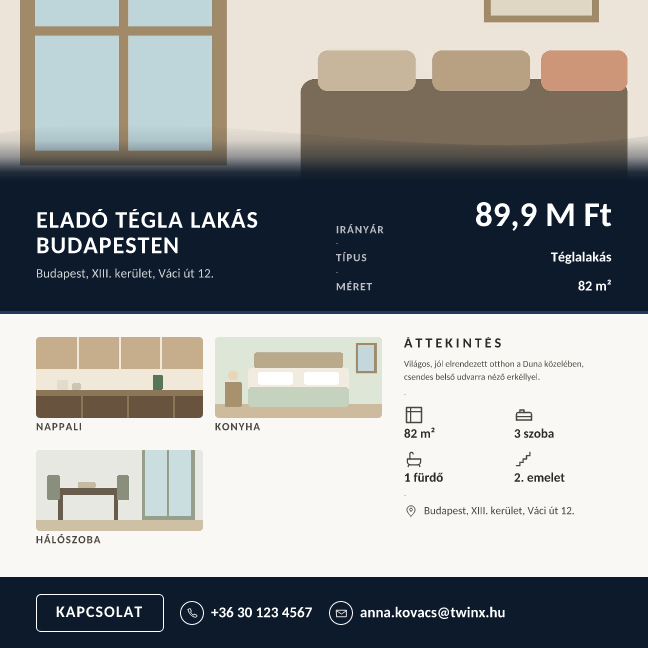
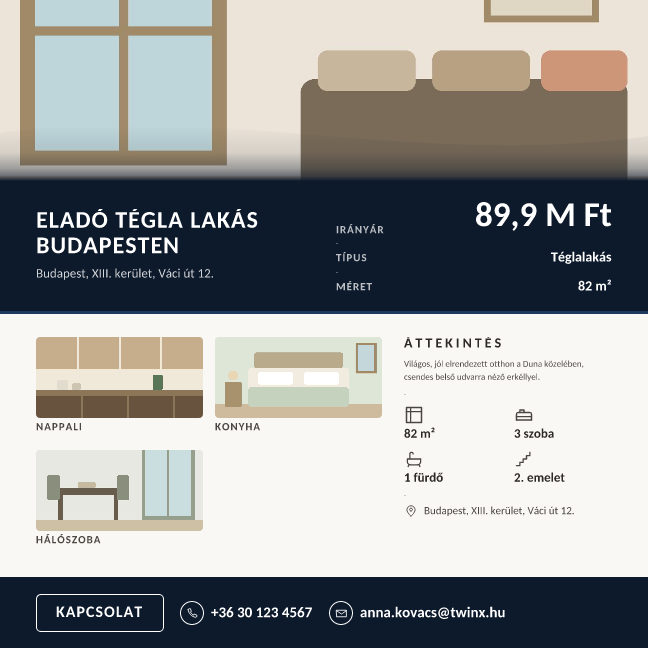
Adatlap: meredekebb, korábban halványuló ívelt átmenet a főképen

Changed region(s): [[0.0, 0.216, 1.0, 0.2778]]

diff --git a/src/lib/flyer-satori-unit.tsx b/src/lib/flyer-satori-unit.tsx
@@ -75,12 +75,13 @@ export function buildUnitElement(o: RenderOpts, family: string): React.ReactElem
           "linearGradient",
           { id: "twxCurveFade", x1: "0", y1: "1", x2: "0", y2: "0" },
           [
-            // Alul tömör, de MÁR ALACSONYAN elkezd világosodni: az átmenet a sáv
-            // közelébe húzódik, a fotó felső része szinte érintetlen marad.
+            // MEREDEK átmenet: közvetlenül a sáv fölött már erősen világosodik,
+            // az alsó negyedben ~35%-ra esik, feljebb szinte teljesen eltűnik —
+            // így a főképből alig takar ki valamit.
             React.createElement("stop", { key: 0, offset: "0%", stopColor: t.band, stopOpacity: 1 }),
-            React.createElement("stop", { key: 1, offset: "16%", stopColor: t.band, stopOpacity: 0.9 }),
-            React.createElement("stop", { key: 2, offset: "42%", stopColor: t.band, stopOpacity: 0.4 }),
-            React.createElement("stop", { key: 3, offset: "70%", stopColor: t.band, stopOpacity: 0.1 }),
+            React.createElement("stop", { key: 1, offset: "8%", stopColor: t.band, stopOpacity: 0.6 }),
+            React.createElement("stop", { key: 2, offset: "22%", stopColor: t.band, stopOpacity: 0.35 }),
+            React.createElement("stop", { key: 3, offset: "50%", stopColor: t.band, stopOpacity: 0.1 }),
             React.createElement("stop", { key: 4, offset: "100%", stopColor: t.band, stopOpacity: 0 }),
           ]
         )
